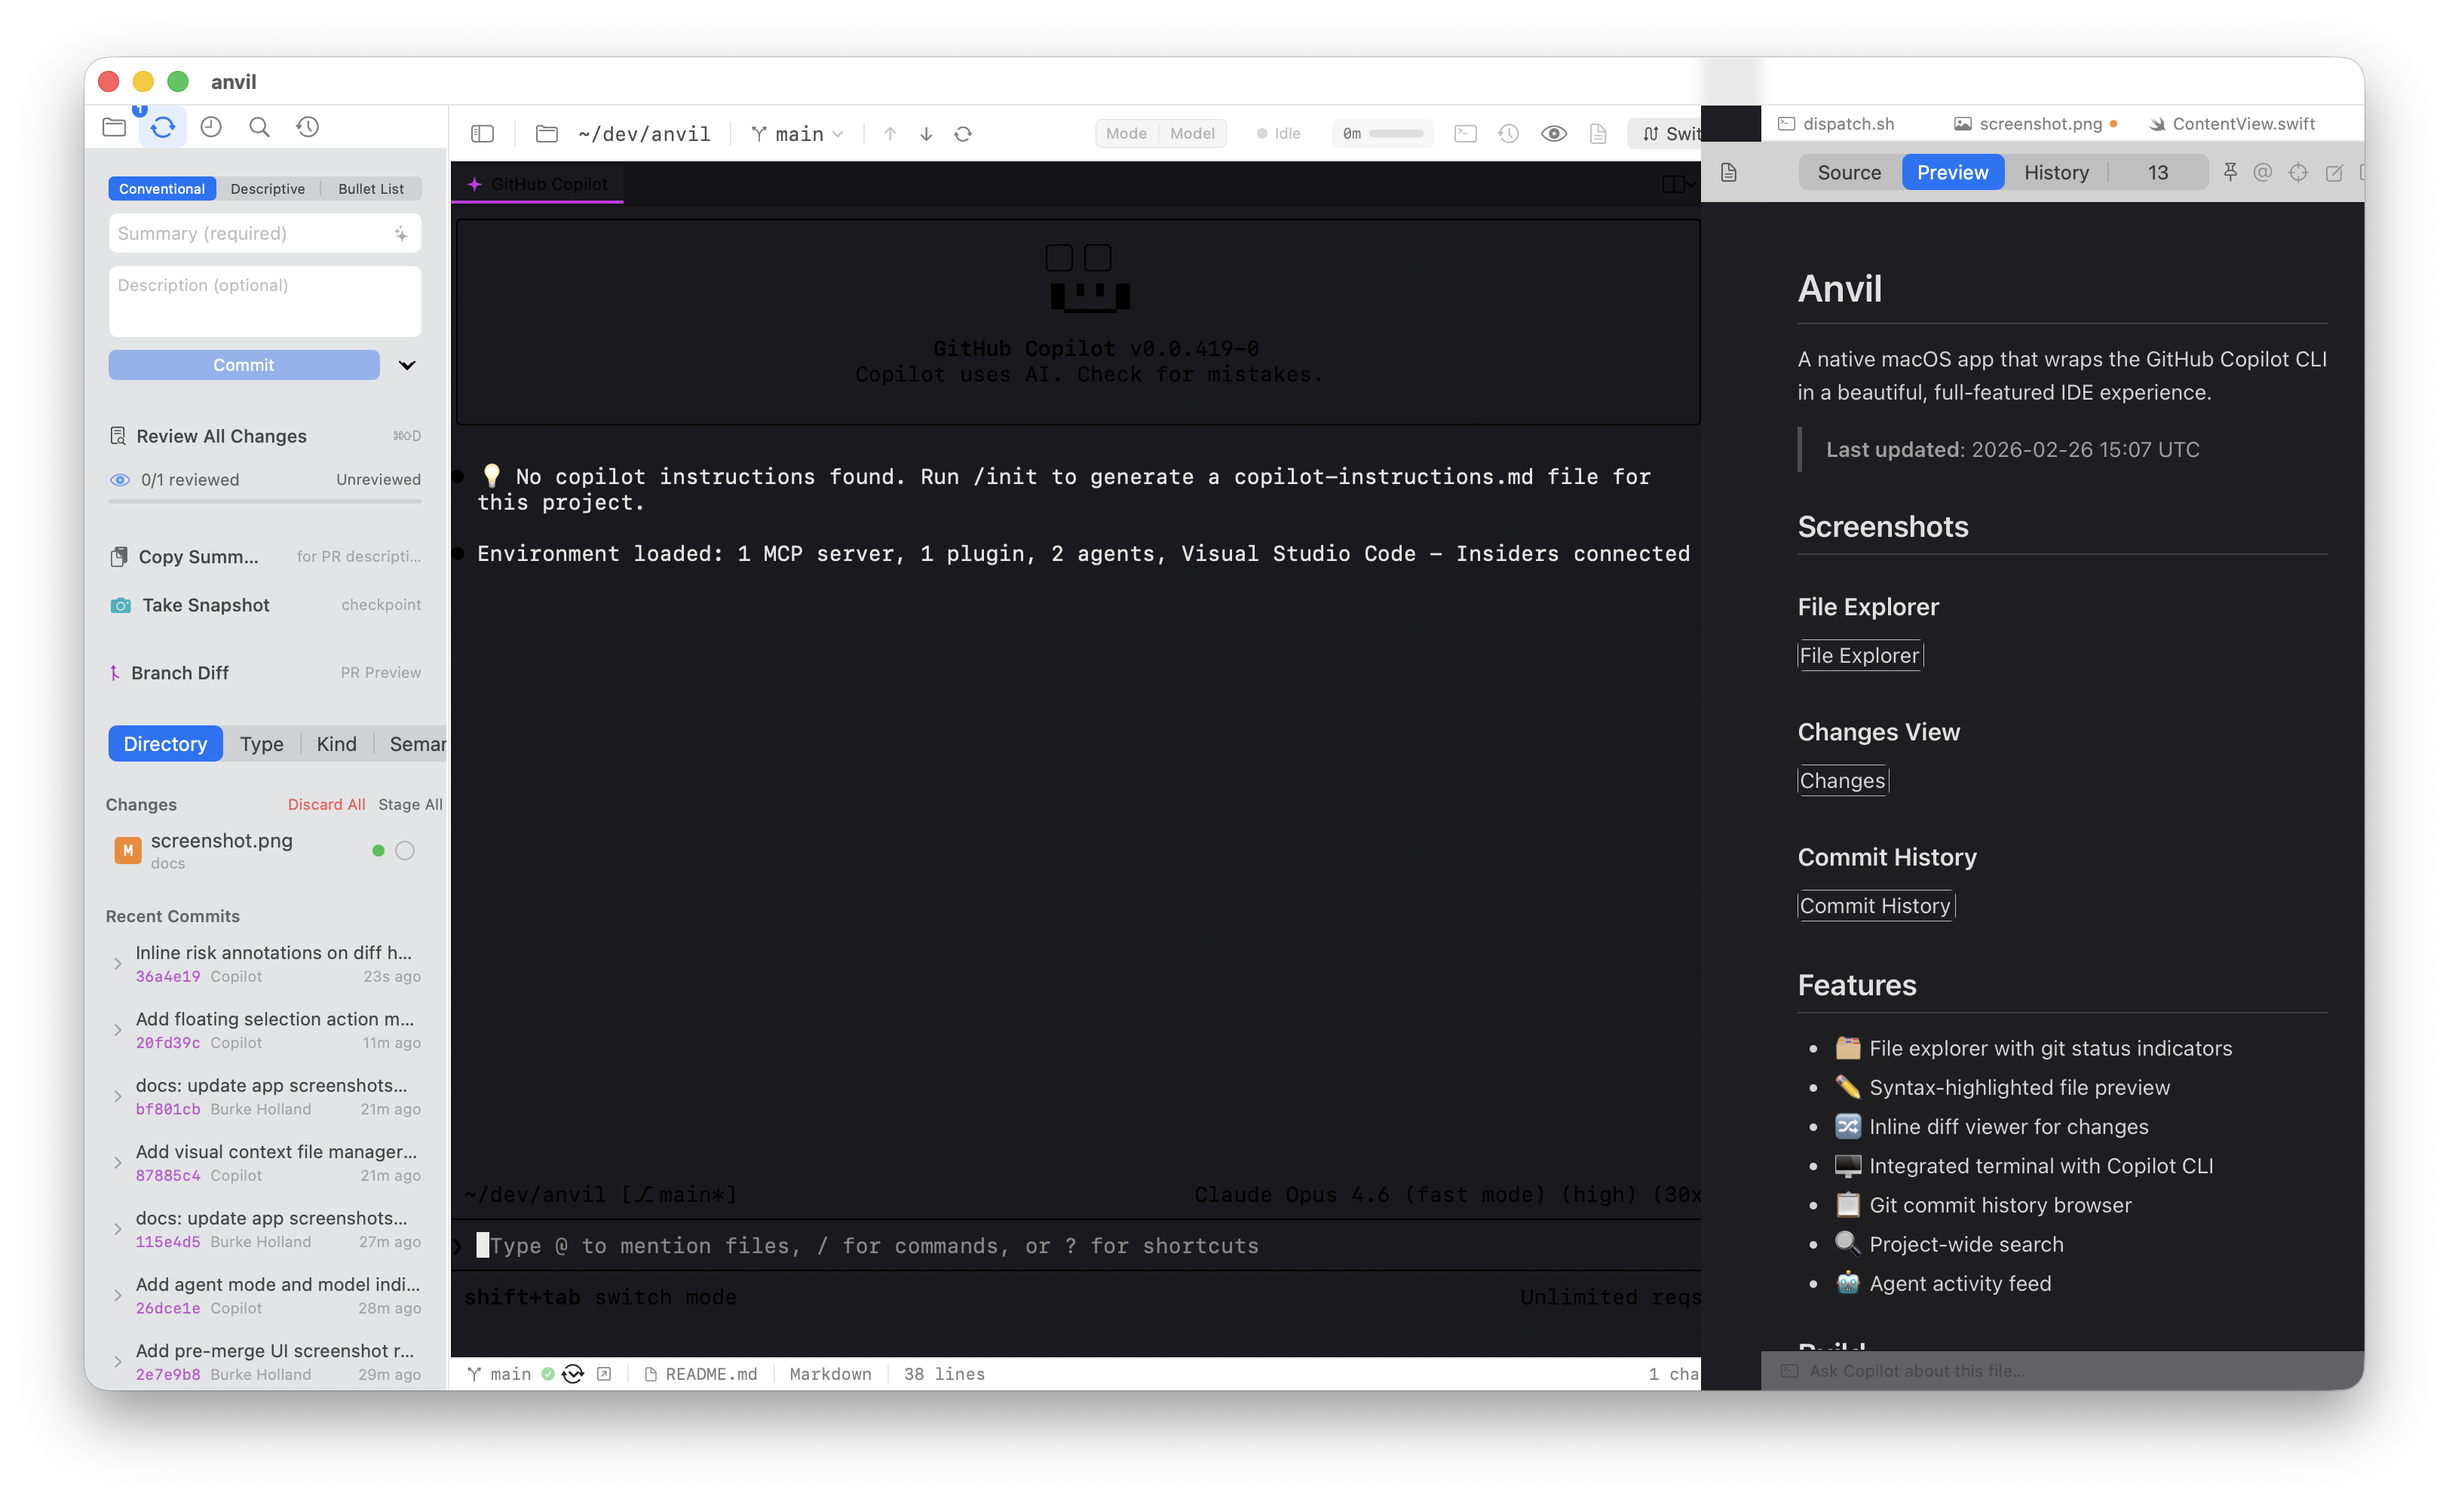
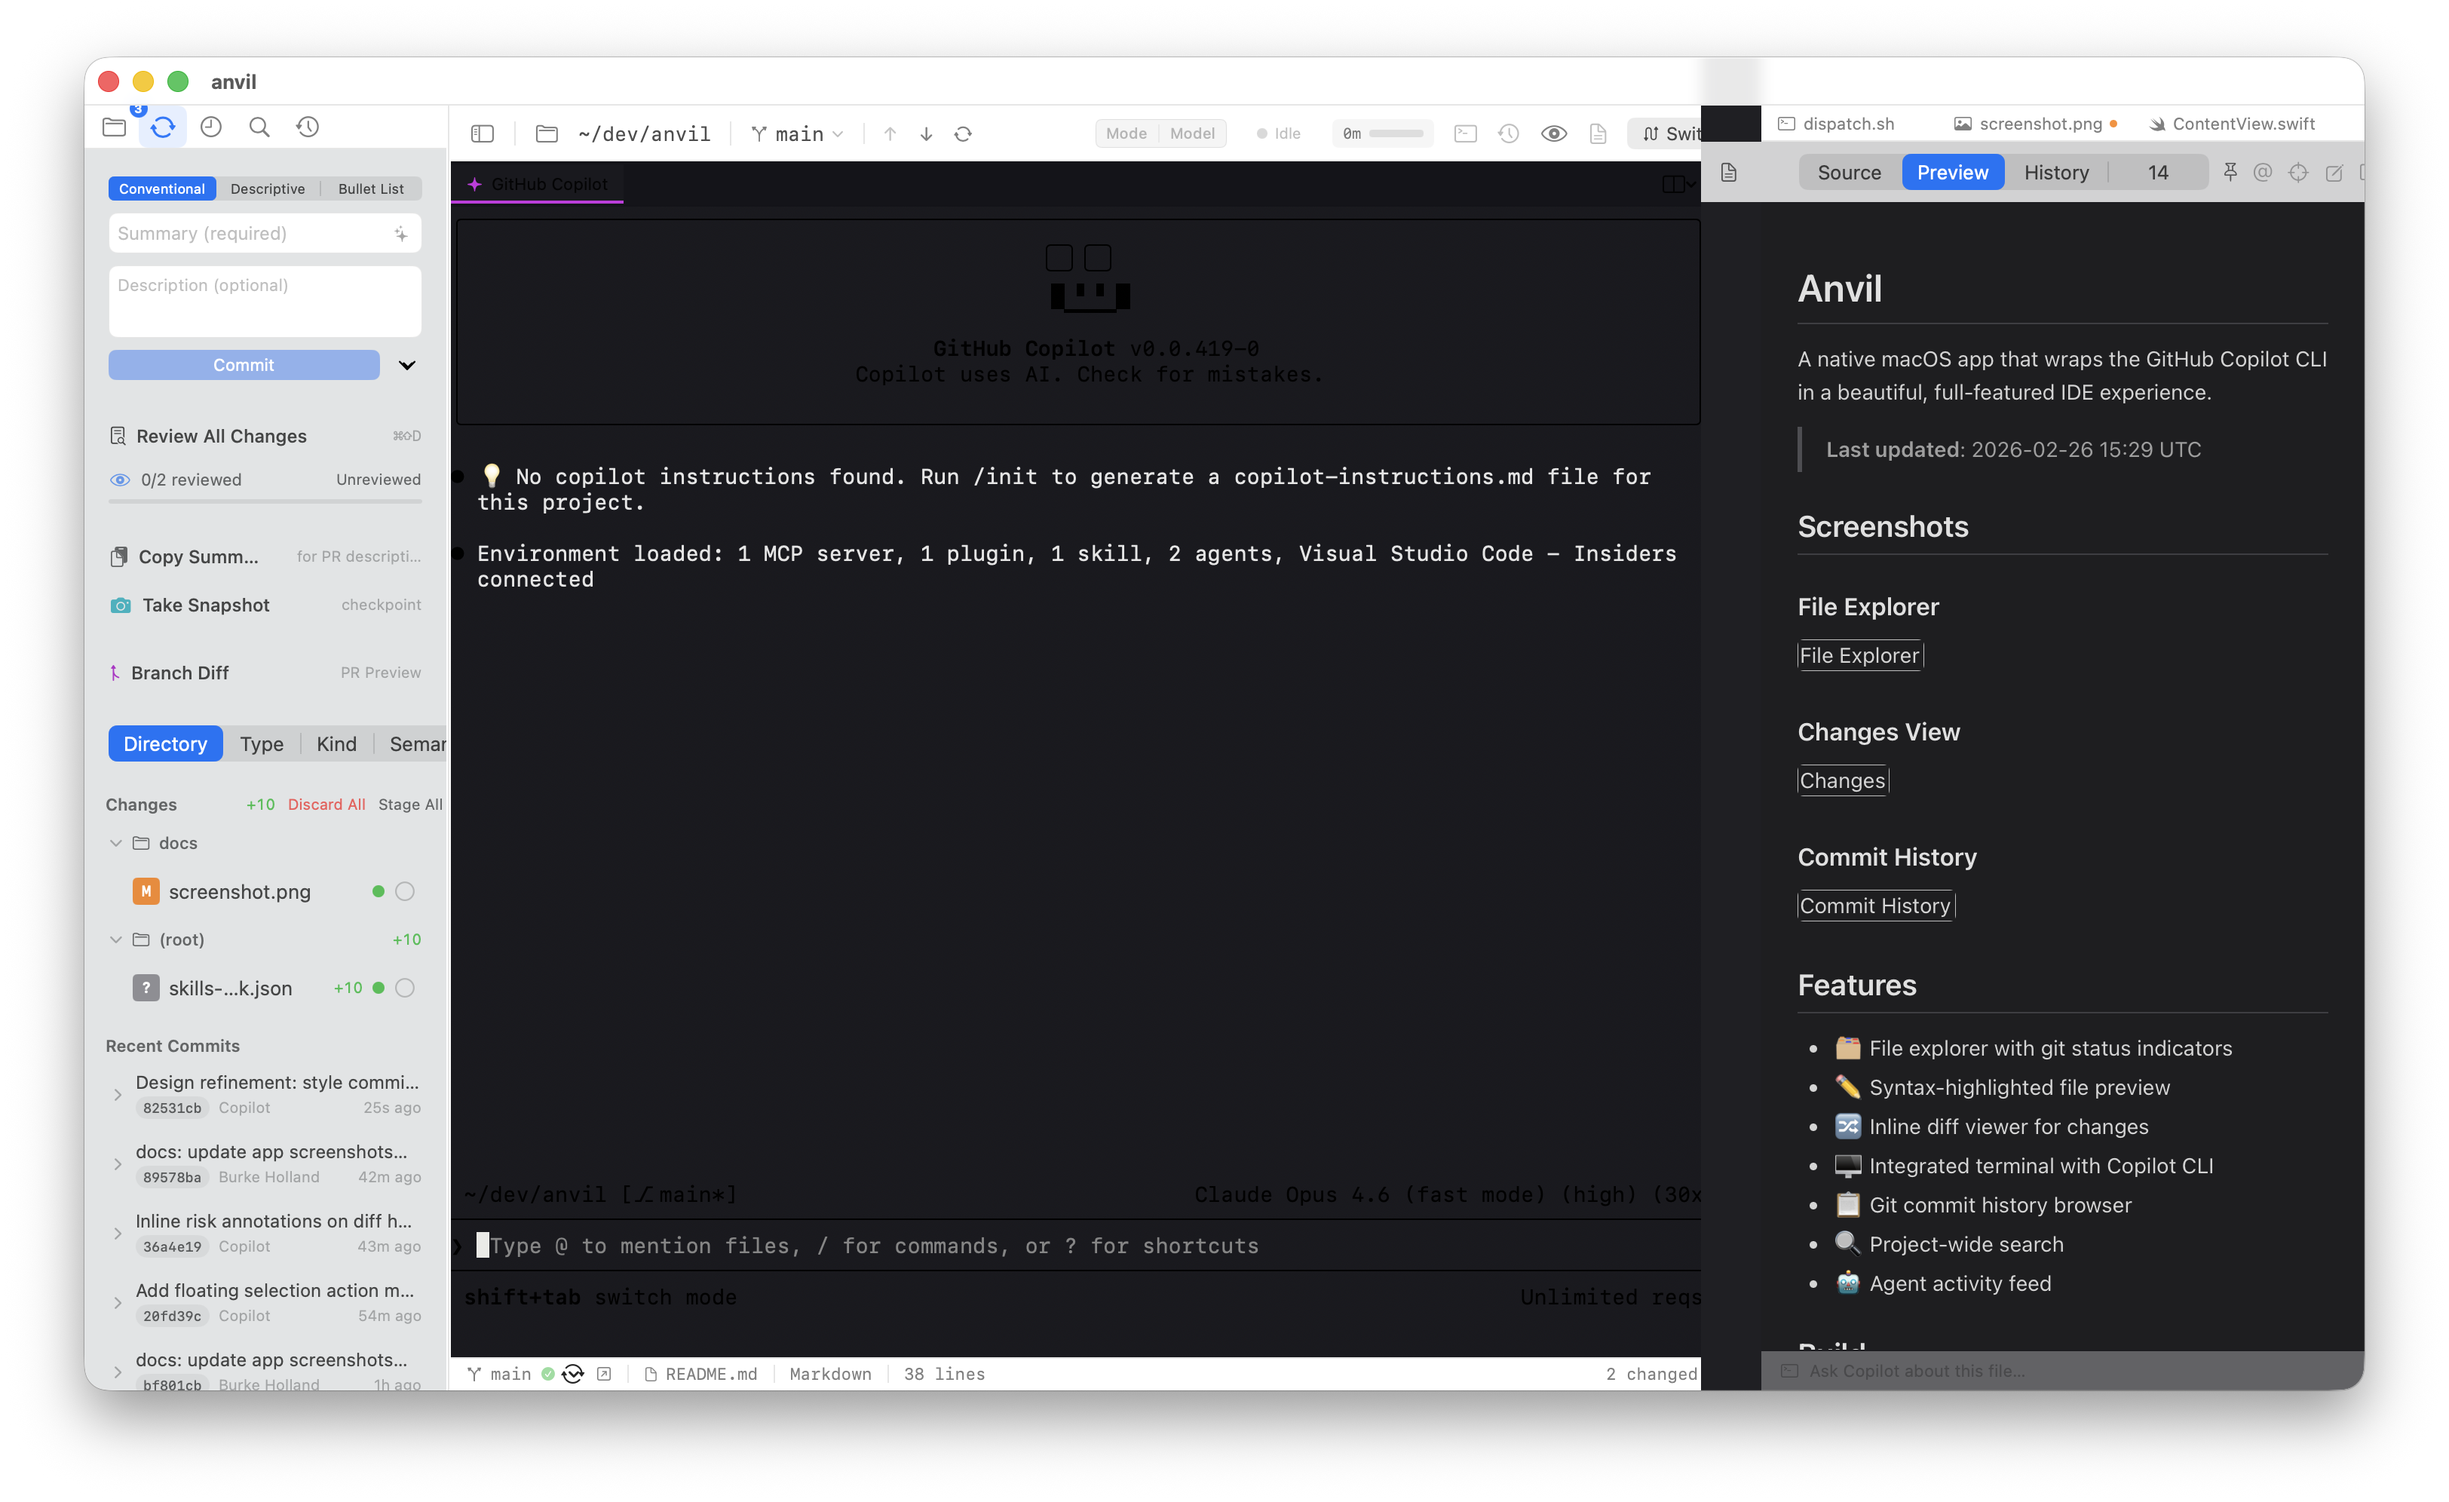
docs: update app screenshots and README (2026-02-26 16:12 UTC)

diff --git a/README.md b/README.md
@@ -2,7 +2,7 @@
 
 A native macOS app that wraps the GitHub Copilot CLI in a beautiful, full-featured IDE experience.
 
-> **Last updated**: 2026-02-26 15:29 UTC
+> **Last updated**: 2026-02-26 16:12 UTC
 
 ## Screenshots
 
